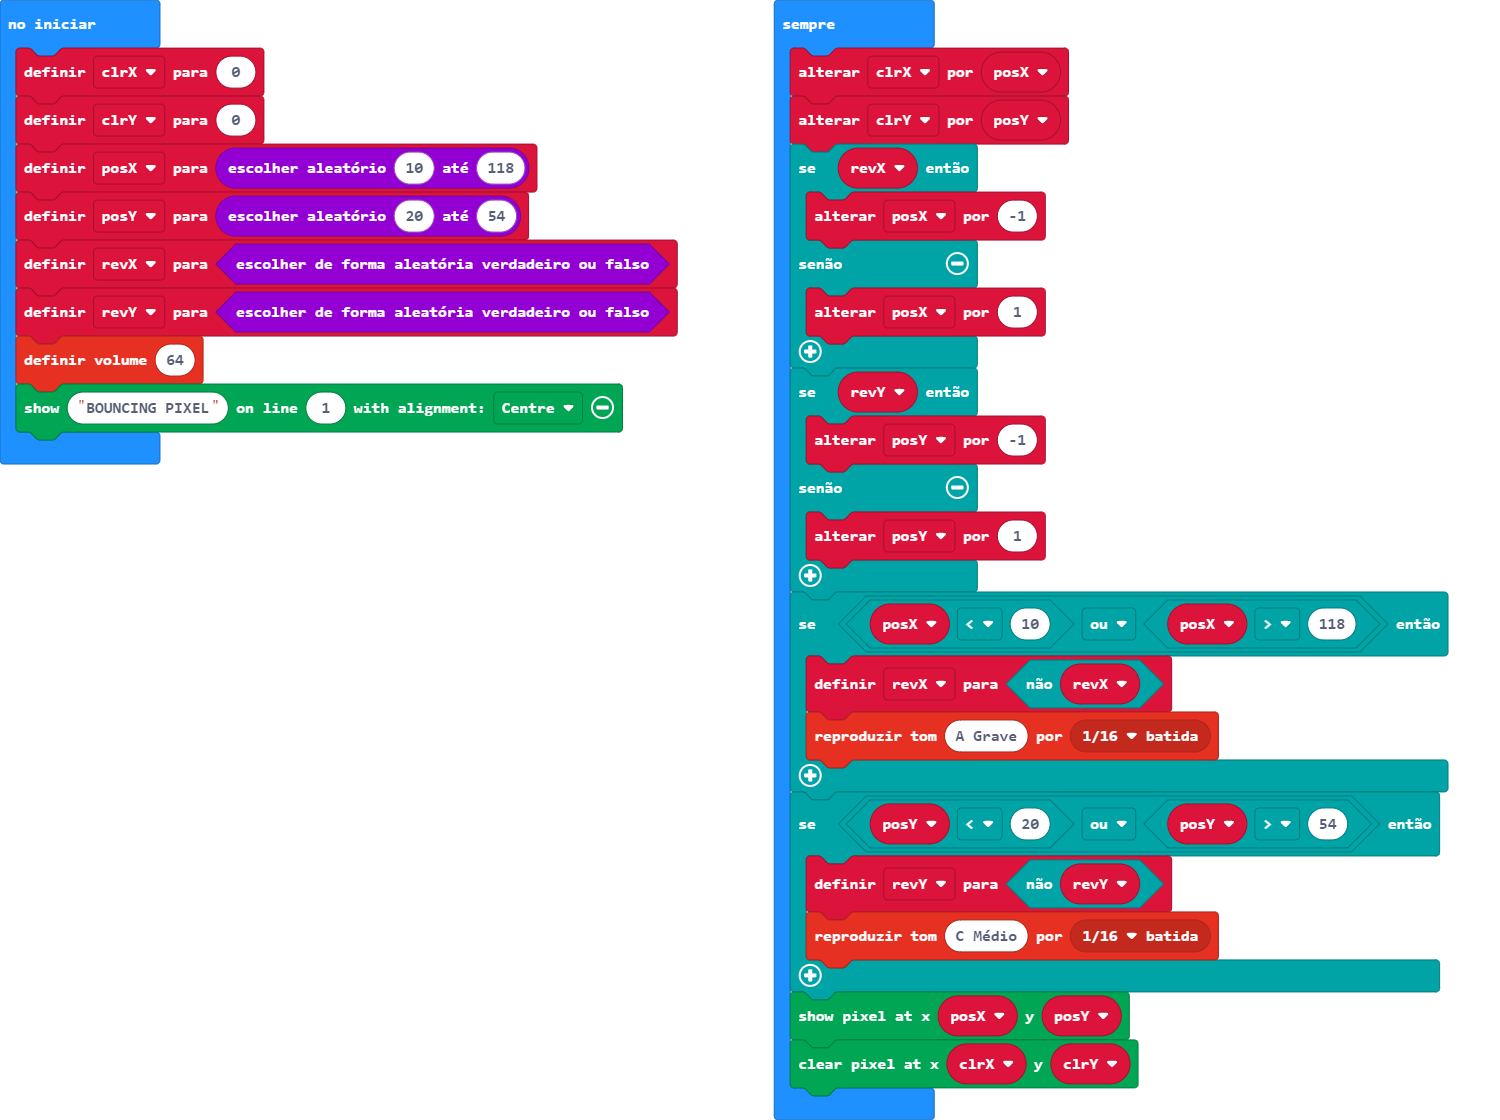
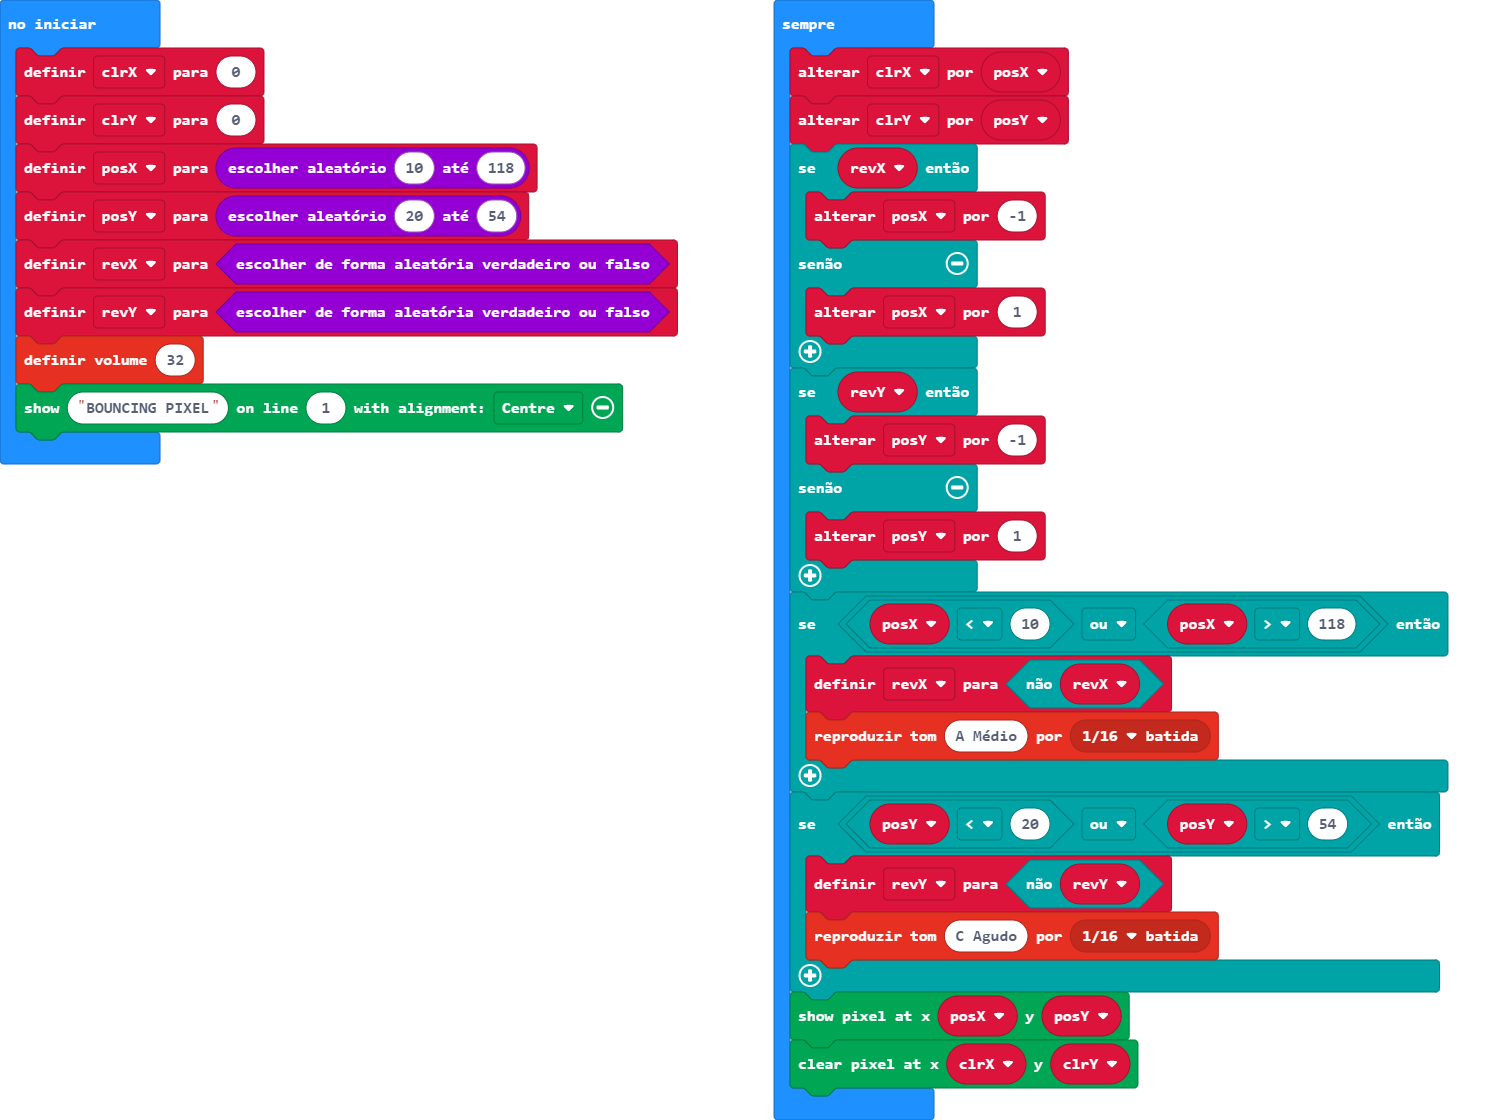
Atualizar 'main.blocks, main.ts'

Changed region(s): [[0.644, 0.8125, 0.6747, 0.8438]]

diff --git a/main.ts b/main.ts
@@ -4,7 +4,7 @@ let posX = randint(10, 118)
 let posY = randint(20, 54)
 let revX = Math.randomBoolean()
 let revY = Math.randomBoolean()
-music.setVolume(64)
+music.setVolume(32)
 kitronik_VIEW128x64.show("BOUNCING PIXEL", 1, kitronik_VIEW128x64.ShowAlign.Centre)
 basic.forever(function () {
     clrX += posX
@@ -21,11 +21,11 @@ basic.forever(function () {
     }
     if (posX < 10 || posX > 118) {
         revX = !(revX)
-        music.playTone(220, music.beat(BeatFraction.Sixteenth))
+        music.playTone(440, music.beat(BeatFraction.Sixteenth))
     }
     if (posY < 20 || posY > 54) {
         revY = !(revY)
-        music.playTone(262, music.beat(BeatFraction.Sixteenth))
+        music.playTone(523, music.beat(BeatFraction.Sixteenth))
     }
     kitronik_VIEW128x64.setPixel(posX, posY)
     kitronik_VIEW128x64.clearPixel(clrX, clrY)
